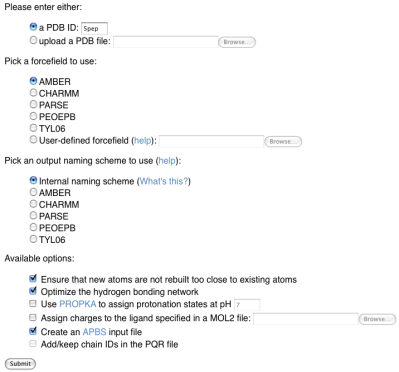
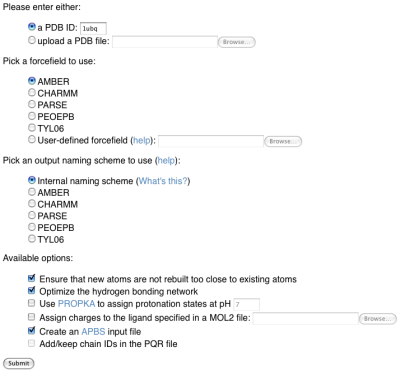
Fixes for incorrect PDB IDs.
git-svn-id: https://svn.code.sf.net/p/pdb2pqr/code/trunk@698 a31b80ef-cfbe-4eed-bdb8-f46006999a5b

diff --git a/pdb2pqr/examples/index.html b/pdb2pqr/examples/index.html
@@ -179,8 +179,8 @@
 		        </li>
                 <li>Locate the text 'Please enter either:', located about halfway down the PDB2PQR web interface page.
                     <ol style="list-style-type:lower-alpha">
-                        <li>Enter <a href="http://www.rcsb.org/">a PDB ID</a>, such as <a href="http://www.pdb.org/pdb/explore.do?structureId=1k4r">1k4r</a>, in the field prepended by the text 'a PDB ID:', <b>or</b></li>
-                        <li>Browse your filesystem for <a href="http://www.rcsb.org/">a PDB file</a>, such as the one for <a href="http://www.pdb.org/pdb/download/downloadFile.do?fileFormat=pdb&compression=NO&structureId=1k4r">1k4r</a>, and enter it in the form field prepended by the text 'upload a PDB file:'.</li>
+                        <li>Enter <a href="http://www.rcsb.org/">a PDB ID</a>, such as <a href="http://www.pdb.org/pdb/explore.do?structureId=1ubq">1ubq</a>, in the field prepended by the text 'a PDB ID:', <b>or</b></li>
+                        <li>Browse your filesystem for <a href="http://www.rcsb.org/">a PDB file</a>, such as the one for <a href="http://www.pdb.org/pdb/download/downloadFile.do?fileFormat=pdb&compression=NO&structureId=1ubq">1ubq</a>, and enter it in the form field prepended by the text 'upload a PDB file:'.</li>
                     </ol>
                 </li>
                 <li>Optionally select an alternate radio button for the type of forcefield to use for the calculation.</li>
